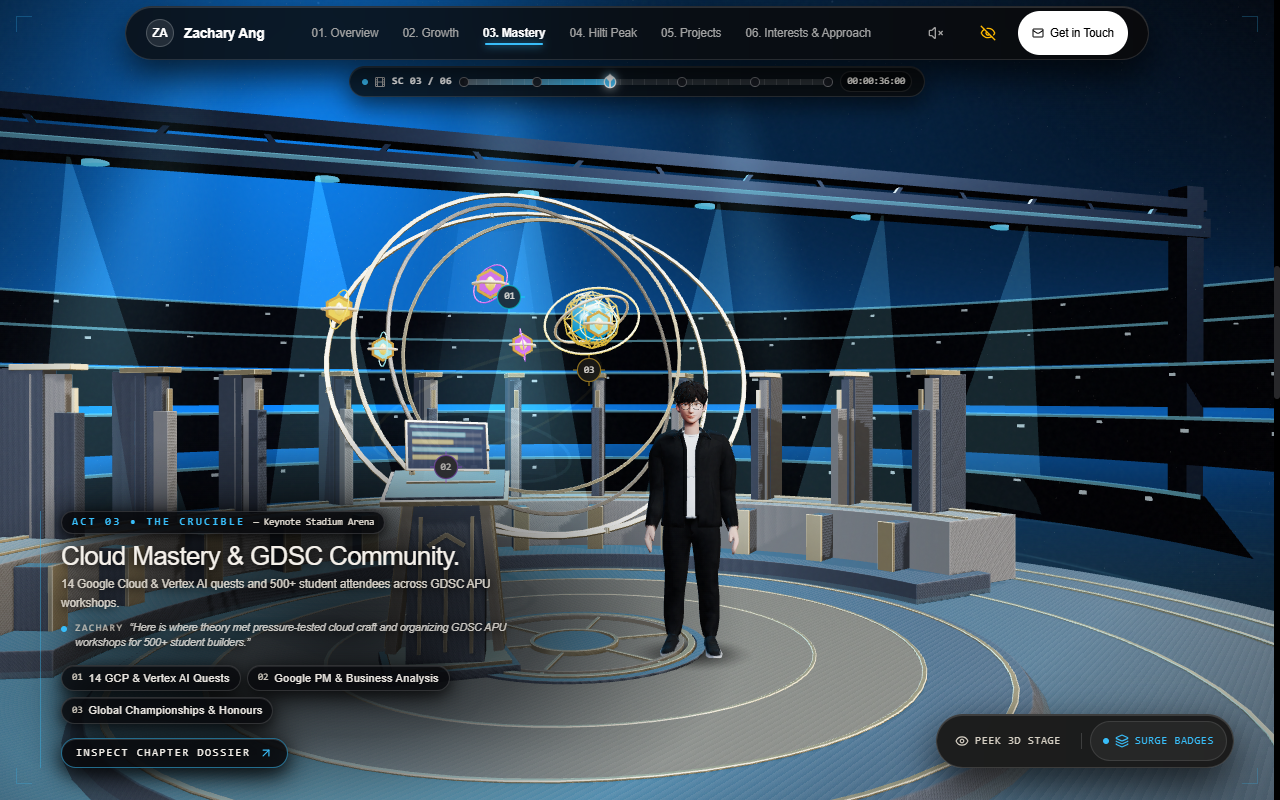
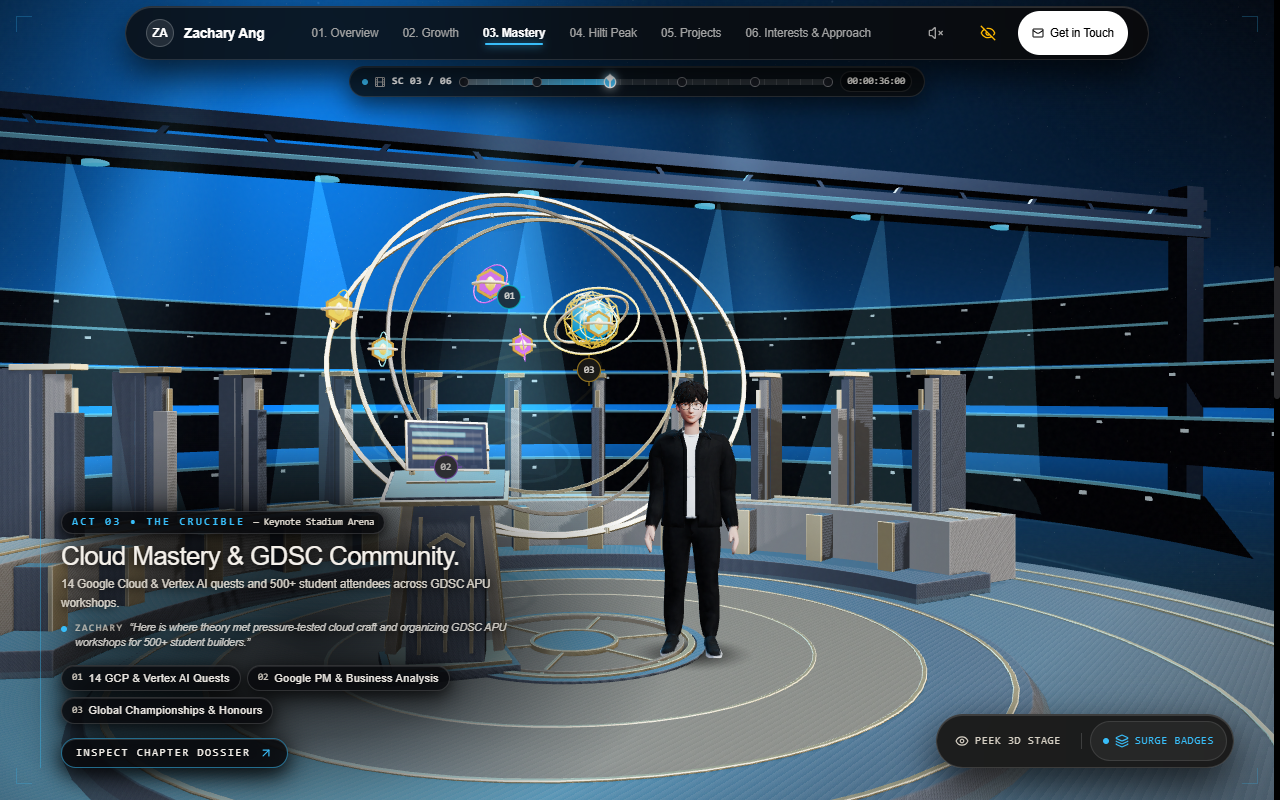
chore(sync): auto-sync ZacharyPortfolio (27 modified in screenshots, src)

Changed region(s): [[0.375, 0.625, 0.5, 0.875]]

diff --git a/src/graphics/SceneController.ts b/src/graphics/SceneController.ts
@@ -151,6 +151,13 @@ export class SceneController {
   private companionLastAppliedRelaxWeight: number = 0;
   private companionIdleRelaxWeight: number = 0;
   private companionRelaxScratchQuat: THREE.Quaternion = new THREE.Quaternion();
+  private companionNeckGazeInvQuat: THREE.Quaternion = new THREE.Quaternion();
+  private companionHeadGazeInvQuat: THREE.Quaternion = new THREE.Quaternion();
+  private companionGazeScratchQuat: THREE.Quaternion = new THREE.Quaternion();
+  private companionGazeScratchEuler: THREE.Euler = new THREE.Euler(0, 0, 0, 'YXZ');
+  private companionHasAppliedGaze: boolean = false;
+  private companionGazeYaw: number = 0;
+  private companionGazePitch: number = 0;
   private companionEyelidMesh: THREE.Mesh | null = null;
   private companionYawOffset: number = -0.18;
   private contactShadowTex: THREE.CanvasTexture | null = null;
@@ -2486,6 +2493,11 @@ export class SceneController {
     this.companionArmRelaxQuats = null;
     this.companionLastAppliedRelaxWeight = 0;
     this.companionIdleRelaxWeight = 0;
+    this.companionHasAppliedGaze = false;
+    this.companionGazeYaw = 0;
+    this.companionGazePitch = 0;
+    this.companionNeckGazeInvQuat.identity();
+    this.companionHeadGazeInvQuat.identity();
     this.companionEyelidMesh = null;
 
     if (this.companionModel) {
@@ -2823,6 +2835,39 @@ export class SceneController {
     this.companionLastAppliedRelaxWeight = clamped;
   }
 
+  private clearCompanionHeadGaze(): void {
+    if (!this.companionHasAppliedGaze) return;
+    if (this.companionNeckBone) {
+      this.companionNeckBone.quaternion.multiply(this.companionNeckGazeInvQuat).normalize();
+    }
+    if (this.companionHeadBone) {
+      this.companionHeadBone.quaternion.multiply(this.companionHeadGazeInvQuat).normalize();
+    }
+    this.companionNeckGazeInvQuat.identity();
+    this.companionHeadGazeInvQuat.identity();
+    this.companionHasAppliedGaze = false;
+  }
+
+  private applyCompanionHeadGaze(yawRad: number, pitchRad: number): void {
+    this.clearCompanionHeadGaze();
+    if (Math.abs(yawRad) <= 1e-5 && Math.abs(pitchRad) <= 1e-5) {
+      return;
+    }
+    if (this.companionNeckBone) {
+      this.companionGazeScratchEuler.set(pitchRad * 0.25, yawRad * 0.35, 0, 'YXZ');
+      this.companionGazeScratchQuat.setFromEuler(this.companionGazeScratchEuler);
+      this.companionNeckBone.quaternion.multiply(this.companionGazeScratchQuat).normalize();
+      this.companionNeckGazeInvQuat.copy(this.companionGazeScratchQuat).invert();
+    }
+    if (this.companionHeadBone) {
+      this.companionGazeScratchEuler.set(pitchRad * 0.75, yawRad * 0.65, 0, 'YXZ');
+      this.companionGazeScratchQuat.setFromEuler(this.companionGazeScratchEuler);
+      this.companionHeadBone.quaternion.multiply(this.companionGazeScratchQuat).normalize();
+      this.companionHeadGazeInvQuat.copy(this.companionGazeScratchQuat).invert();
+    }
+    this.companionHasAppliedGaze = true;
+  }
+
   private updateStylizedCompanion(
     safeDelta: number,
     stIdx: number,
@@ -2879,6 +2924,7 @@ export class SceneController {
 
     if (action) {
       this.applyCompanionIdleArmRelaxation(0);
+      this.clearCompanionHeadGaze();
       const resolvedName = action.getClip().name;
       if (this.isReducedMotion) {
         if (this.companionActiveClip !== resolvedName || !action.isRunning()) {
@@ -2935,16 +2981,21 @@ export class SceneController {
       }
 
       const gazeBlend = 1.0 - turnWeight;
-      if (!this.isReducedMotion && gazeBlend > 0.001) {
-        const gazeYaw = THREE.MathUtils.clamp(this.mouseParallax.x * 0.12, -0.14, 0.14) * gazeBlend;
-        const gazePitch = THREE.MathUtils.clamp(-this.mouseParallax.y * 0.06, -0.06, 0.06) * gazeBlend;
-        if (this.companionNeckBone) {
-          this.companionNeckBone.rotation.y += gazeYaw * 0.35;
-        }
-        if (this.companionHeadBone) {
-          this.companionHeadBone.rotation.y += gazeYaw * 0.65;
-          this.companionHeadBone.rotation.x += gazePitch;
-        }
+      const targetGazeYaw =
+        !this.isReducedMotion && gazeBlend > 0.001
+          ? THREE.MathUtils.clamp(this.mouseParallax.x * 0.14, -0.16, 0.16) * gazeBlend
+          : 0;
+      const targetGazePitch =
+        !this.isReducedMotion && gazeBlend > 0.001
+          ? THREE.MathUtils.clamp(-this.mouseParallax.y * 0.06, -0.07, 0.07) * gazeBlend
+          : 0;
+      if (this.isReducedMotion) {
+        this.companionGazeYaw = 0;
+        this.companionGazePitch = 0;
+      } else {
+        this.companionGazeYaw = THREE.MathUtils.damp(this.companionGazeYaw, targetGazeYaw, 6.0, safeDelta);
+        this.companionGazePitch = THREE.MathUtils.damp(this.companionGazePitch, targetGazePitch, 6.0, safeDelta);
+        this.applyCompanionHeadGaze(this.companionGazeYaw, this.companionGazePitch);
       }
     }
 
@@ -3782,6 +3833,11 @@ export class SceneController {
     this.companionArmRelaxQuats = null;
     this.companionLastAppliedRelaxWeight = 0;
     this.companionIdleRelaxWeight = 0;
+    this.companionHasAppliedGaze = false;
+    this.companionGazeYaw = 0;
+    this.companionGazePitch = 0;
+    this.companionNeckGazeInvQuat.identity();
+    this.companionHeadGazeInvQuat.identity();
     this.companionEyelidMesh = null;
     this.companionModel = null;
     if (this.contactShadowTex) {

diff --git a/src/components/SpatialStageControlDock.tsx b/src/components/SpatialStageControlDock.tsx
@@ -62,6 +62,7 @@ export const SpatialStageControlDock: React.FC<SpatialStageControlDockProps> = (
 }) => {
   const [isPeekingStage, setIsPeekingStage] = useState(false);
   const [lastTriggeredAction, setLastTriggeredAction] = useState<string | null>(null);
+  const [explodedBySection, setExplodedBySection] = useState<Record<string, boolean>>({});
 
   const currentStage =
     STAGE_ACT_MAP[activeSection] ??
@@ -74,6 +75,30 @@ export const SpatialStageControlDock: React.FC<SpatialStageControlDockProps> = (
 
   const actAccent =
     WHISPER_ACTS.find((a) => a.sectionId === activeSection)?.accentColor ?? '#c8a97e';
+
+  const isExplodeAction = currentStage.actionId === 'explode_strata';
+  const isCurrentExploded = Boolean(explodedBySection[activeSection]);
+  const resolvedGestureLabel = isExplodeAction
+    ? isCurrentExploded
+      ? activeSection === 'ai-solutions'
+        ? 'Collapse Strata'
+        : 'Collapse Core'
+      : currentStage.actionButtonLabel
+    : currentStage.actionButtonLabel;
+
+  useEffect(() => {
+    if (typeof window === 'undefined') return;
+    const onExternalExplode = () => {
+      setExplodedBySection((prev) => ({
+        ...prev,
+        [activeSection]: !prev[activeSection],
+      }));
+    };
+    window.addEventListener('portfolio:explode_strata', onExternalExplode);
+    return () => {
+      window.removeEventListener('portfolio:explode_strata', onExternalExplode);
+    };
+  }, [activeSection]);
 
   useEffect(() => {
     if (typeof document !== 'undefined') {
@@ -104,6 +129,12 @@ export const SpatialStageControlDock: React.FC<SpatialStageControlDockProps> = (
       if (action === 'explode_strata' && !controller) {
         window.dispatchEvent(new CustomEvent('portfolio:explode_strata'));
       }
+    }
+    if (action === 'explode_strata') {
+      setExplodedBySection((prev) => ({
+        ...prev,
+        [activeSection]: !prev[activeSection],
+      }));
     }
     if (activeSection === 'contact') {
       onOpenDispatch?.();
@@ -147,18 +178,23 @@ export const SpatialStageControlDock: React.FC<SpatialStageControlDockProps> = (
         type="button"
         data-testid="trigger-3d-gesture-btn"
         data-cursor="TRIGGER"
+        aria-pressed={isExplodeAction ? isCurrentExploded : undefined}
         onClick={handleTriggerGesture}
         data-last-action={lastTriggeredAction ?? ''}
-        style={{ color: actAccent }}
-        className="flex items-center gap-1.5 px-2.5 sm:px-3 py-1 sm:py-1.5 rounded-full text-[10px] sm:text-[11px] font-mono uppercase tracking-wider whitespace-nowrap bg-white/[0.05] hover:bg-white/[0.12] border border-white/10 hover:text-[#F4F0EA] transition-all cursor-pointer min-h-[38px] sm:min-h-[40px]"
+        style={{ color: isExplodeAction && isCurrentExploded ? '#14110f' : actAccent, backgroundColor: isExplodeAction && isCurrentExploded ? actAccent : undefined }}
+        className={`flex items-center gap-1.5 px-2.5 sm:px-3 py-1 sm:py-1.5 rounded-full text-[10px] sm:text-[11px] font-mono uppercase tracking-wider whitespace-nowrap border transition-all cursor-pointer min-h-[38px] sm:min-h-[40px] ${
+          isExplodeAction && isCurrentExploded
+            ? 'font-semibold border-transparent shadow-[0_0_16px_rgba(212,180,131,0.35)]'
+            : 'bg-white/[0.05] hover:bg-white/[0.12] border-white/10 hover:text-[#F4F0EA]'
+        }`}
       >
         <span
           aria-hidden="true"
           className="w-1.5 h-1.5 rounded-full shrink-0"
-          style={{ backgroundColor: actAccent }}
+          style={{ backgroundColor: isExplodeAction && isCurrentExploded ? '#14110f' : actAccent }}
         />
         <Layers className="w-3.5 h-3.5 shrink-0" />
-        <span>{currentStage.actionButtonLabel}</span>
+        <span>{resolvedGestureLabel}</span>
       </button>
     </aside>
   );

diff --git a/src/test/SceneController.test.ts b/src/test/SceneController.test.ts
@@ -3405,6 +3405,41 @@ describe('SceneController Modernization & 3D Spatial Persona Test Suite', () => 
       expect(document.body.dataset.hoveredProp).toBeUndefined();
       expect(container.style.cursor).toBe('');
     });
+
+    it('prevents 360-degree companion Head/Neck spin across Three.js PropertyMixer plateau frames during mouse gaze', () => {
+      const controller = new SceneController(container);
+      const compGroup = new THREE.Group();
+      const neckBone = new THREE.Bone();
+      neckBone.name = 'Neck';
+      const headBone = new THREE.Bone();
+      headBone.name = 'Head';
+      neckBone.add(headBone);
+      compGroup.add(neckBone);
+
+      const idleClip = new THREE.AnimationClip('Idle_Breathing', 3.0, [
+        new THREE.QuaternionKeyframeTrack('Neck.quaternion', [0, 3.0], [0, 0, 0, 1, 0, 0, 0, 1]),
+        new THREE.QuaternionKeyframeTrack('Head.quaternion', [0, 3.0], [0, 0, 0, 1, 0, 0, 0, 1]),
+      ]);
+      controller.applyLoadedStylizedCompanion({ scene: compGroup, animations: [idleClip] });
+      controller.setReducedMotion(false);
+      controller.updateParallax(0.95, 0.65);
+
+      for (let f = 0; f < 300; f++) {
+        controller.animateTick(1 / 60);
+        expect(Math.abs(headBone.rotation.y)).toBeLessThan(0.25);
+        expect(Math.abs(neckBone.rotation.y)).toBeLessThan(0.20);
+        expect(Math.abs(headBone.rotation.x)).toBeLessThan(0.20);
+      }
+
+      controller.updateParallax(0, 0);
+      controller.setReducedMotion(true);
+      controller.animateTick(1 / 60);
+      expect(Math.abs(headBone.rotation.y)).toBeLessThan(0.02);
+      expect(Math.abs(neckBone.rotation.y)).toBeLessThan(0.02);
+      expect(Math.abs(headBone.rotation.x)).toBeLessThan(0.02);
+
+      controller.dispose();
+    });
   });
 });
 

diff --git a/src/components/WhisperStageHUD.tsx b/src/components/WhisperStageHUD.tsx
@@ -41,9 +41,9 @@ export const WhisperStageHUD: React.FC<WhisperStageHUDProps> = ({
       aria-label="Active 3D Scene Whisper Narrative & Sub-Target Controls"
       data-testid="whisper-stage-hud"
       data-peek-hide
-      className={`fixed bottom-[76px] left-3.5 right-3.5 sm:right-auto sm:bottom-8 sm:left-10 z-30 max-w-none sm:max-w-xl pointer-events-none select-none transition-opacity duration-300 ${
+      className={`fixed bottom-[76px] left-3.5 right-3.5 sm:right-auto sm:bottom-8 sm:left-10 z-30 max-w-none sm:max-w-lg pointer-events-none select-none transition-opacity duration-300 ${
         isSheetOpen
-          ? 'max-sm:opacity-0 max-sm:pointer-events-none'
+          ? 'max-lg:opacity-0 max-lg:pointer-events-none'
           : isInCorridor
             ? 'opacity-82'
             : 'opacity-100'

diff --git a/src/test/VisualCapture.test.ts b/src/test/VisualCapture.test.ts
@@ -1083,7 +1083,7 @@ async function verifyRealScreenViaCDP(browserPath: string, targetUrl: string, ou
         await waitRaf(6);
         const sheet = document.querySelector('[data-testid="slide-over-inspection-sheet"]')?.getBoundingClientRect();
         const hudWhenOpen = document.querySelector('[data-testid="whisper-stage-hud"]');
-        const sheetHidesWhisperHud = Boolean(hudWhenOpen?.className.includes('max-sm:opacity-0'));
+        const sheetHidesWhisperHud = Boolean(hudWhenOpen?.className.includes('max-lg:opacity-0'));
         const hamburger = document.querySelector('button[aria-label="Open Navigation Menu"]');
         let backdropCoversSheet = false;
         let backdropCoversDock = false;

diff --git a/src/graphics/acts/Act1StrategicCore.ts b/src/graphics/acts/Act1StrategicCore.ts
@@ -564,8 +564,8 @@ export class Act1StrategicCore {
           dCtx.font = 'bold 11px sans-serif';
           dCtx.fillText('1ST PLACE HILTI GLOBAL', 20, 62);
           dCtx.fillStyle = '#d4b483';
-          dCtx.font = 'bold 10px sans-serif';
-          dCtx.fillText('FIRST-CLASS HONOURS 3.89', 20, 80);
+          dCtx.font = 'bold 9.5px sans-serif';
+          dCtx.fillText('3.75 FIRST-CLASS BSC • 3.89 DIP', 20, 80);
 
           // Architectural metric telemetry bars
           const bars = [
